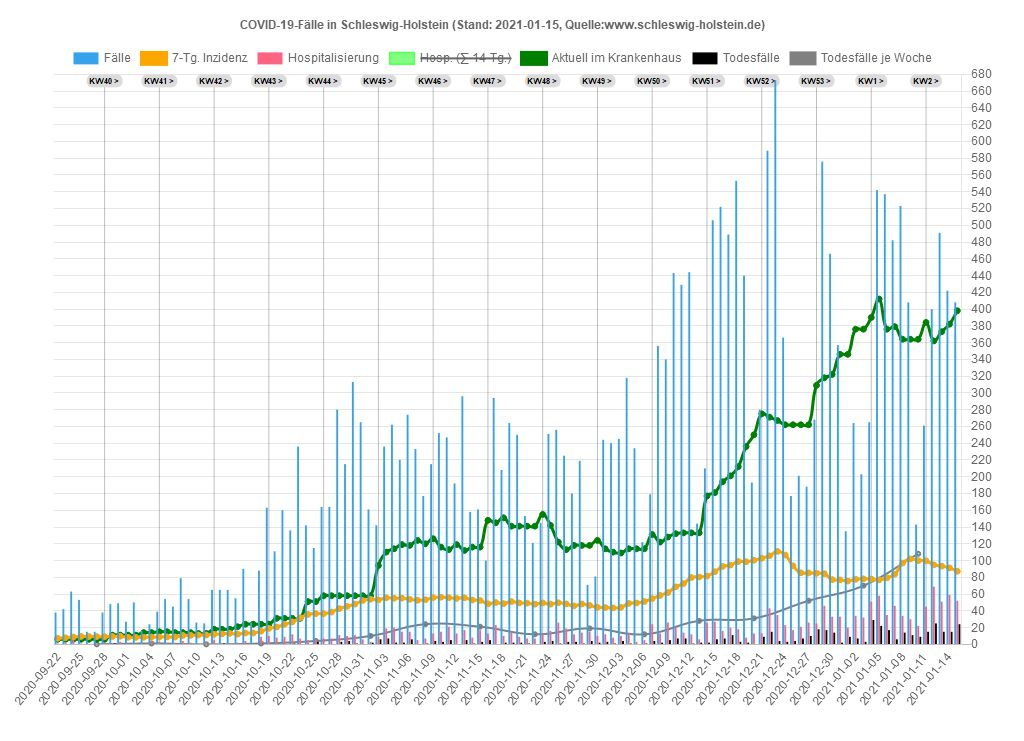
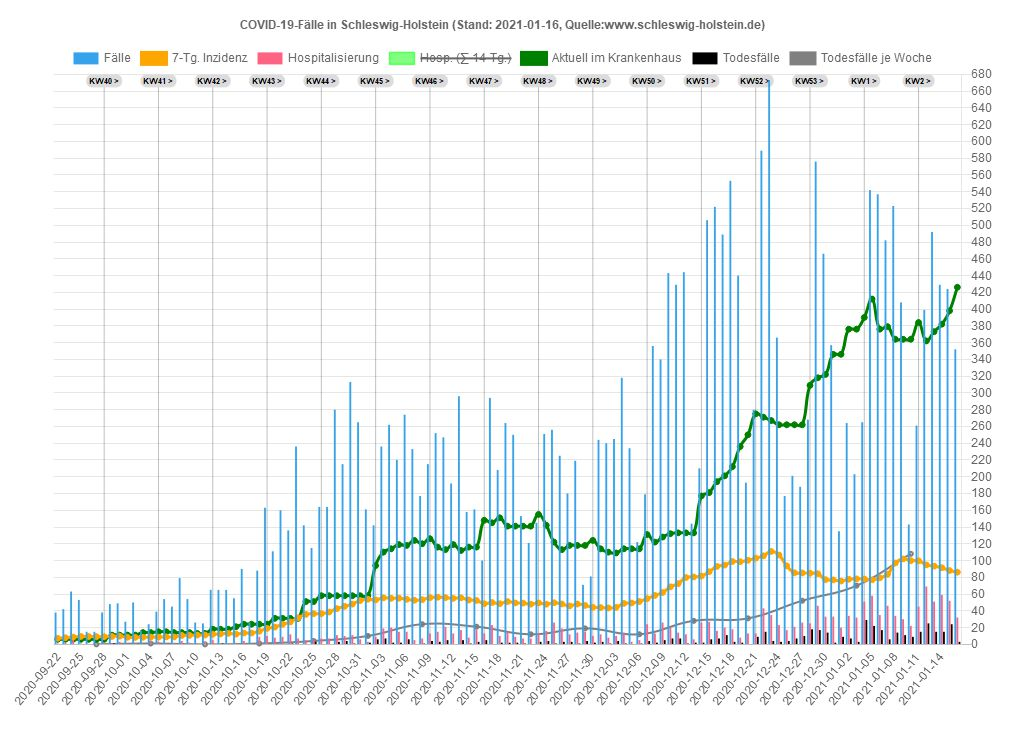
16.01.2021 20:33:05,99

Changed region(s): [[0.0625, 0.0931, 0.9375, 0.9622], [0.1875, 0.0931, 0.2188, 0.1242], [0.125, 0.0931, 0.1562, 0.1242]]

diff --git a/sh/Data_SH.js b/sh/Data_SH.js
@@ -1,20 +1,20 @@
 var chdata={
-labels: ["2020-09-22","2020-09-23","2020-09-24","2020-09-25","2020-09-26","2020-09-27","2020-09-28","2020-09-29","2020-09-30","2020-10-01","2020-10-02","2020-10-03","2020-10-04","2020-10-05","2020-10-06","2020-10-07","2020-10-08","2020-10-09","2020-10-10","2020-10-11","2020-10-12","2020-10-13","2020-10-14","2020-10-15","2020-10-16","2020-10-17","2020-10-18","2020-10-19","2020-10-20","2020-10-21","2020-10-22","2020-10-23","2020-10-24","2020-10-25","2020-10-26","2020-10-27","2020-10-28","2020-10-29","2020-10-30","2020-10-31","2020-11-01","2020-11-02","2020-11-03","2020-11-04","2020-11-05","2020-11-06","2020-11-07","2020-11-08","2020-11-09","2020-11-10","2020-11-11","2020-11-12","2020-11-13","2020-11-14","2020-11-15","2020-11-16","2020-11-17","2020-11-18","2020-11-19","2020-11-20","2020-11-21","2020-11-22","2020-11-23","2020-11-24","2020-11-25","2020-11-26","2020-11-27","2020-11-28","2020-11-29","2020-11-30","2020-12-01","2020-12-02","2020-12-03","2020-12-04","2020-12-05","2020-12-06","2020-12-07","2020-12-08","2020-12-09","2020-12-10","2020-12-11","2020-12-12","2020-12-13","2020-12-14","2020-12-15","2020-12-16","2020-12-17","2020-12-18","2020-12-19","2020-12-20","2020-12-21","2020-12-22","2020-12-23","2020-12-24","2020-12-25","2020-12-26","2020-12-27","2020-12-28","2020-12-29","2020-12-30","2020-12-31","2021-01-01","2021-01-02","2021-01-03","2021-01-04","2021-01-05","2021-01-06","2021-01-07","2021-01-08","2021-01-09","2021-01-10","2021-01-11","2021-01-12","2021-01-13","2021-01-14","2021-01-15"],
+labels: ["2020-09-22","2020-09-23","2020-09-24","2020-09-25","2020-09-26","2020-09-27","2020-09-28","2020-09-29","2020-09-30","2020-10-01","2020-10-02","2020-10-03","2020-10-04","2020-10-05","2020-10-06","2020-10-07","2020-10-08","2020-10-09","2020-10-10","2020-10-11","2020-10-12","2020-10-13","2020-10-14","2020-10-15","2020-10-16","2020-10-17","2020-10-18","2020-10-19","2020-10-20","2020-10-21","2020-10-22","2020-10-23","2020-10-24","2020-10-25","2020-10-26","2020-10-27","2020-10-28","2020-10-29","2020-10-30","2020-10-31","2020-11-01","2020-11-02","2020-11-03","2020-11-04","2020-11-05","2020-11-06","2020-11-07","2020-11-08","2020-11-09","2020-11-10","2020-11-11","2020-11-12","2020-11-13","2020-11-14","2020-11-15","2020-11-16","2020-11-17","2020-11-18","2020-11-19","2020-11-20","2020-11-21","2020-11-22","2020-11-23","2020-11-24","2020-11-25","2020-11-26","2020-11-27","2020-11-28","2020-11-29","2020-11-30","2020-12-01","2020-12-02","2020-12-03","2020-12-04","2020-12-05","2020-12-06","2020-12-07","2020-12-08","2020-12-09","2020-12-10","2020-12-11","2020-12-12","2020-12-13","2020-12-14","2020-12-15","2020-12-16","2020-12-17","2020-12-18","2020-12-19","2020-12-20","2020-12-21","2020-12-22","2020-12-23","2020-12-24","2020-12-25","2020-12-26","2020-12-27","2020-12-28","2020-12-29","2020-12-30","2020-12-31","2021-01-01","2021-01-02","2021-01-03","2021-01-04","2021-01-05","2021-01-06","2021-01-07","2021-01-08","2021-01-09","2021-01-10","2021-01-11","2021-01-12","2021-01-13","2021-01-14","2021-01-15","2021-01-16"],
 datasets: [
 {label: 'Fälle',
 type: 'bar',
 backgroundColor: window.chartColors.blue,
-data: [38,42,63,53,15,15,38,48,49,27,50,16,24,39,54,45,79,54,26,25,65,65,65,55,90,26,88,163,111,160,136,236,142,115,164,164,280,215,313,265,161,142,236,262,220,274,233,177,215,252,247,192,296,158,161,100,294,208,264,250,153,121,145,251,256,225,180,219,71,81,244,240,245,318,234,122,179,356,340,443,429,444,144,210,506,522,489,553,440,193,280,589,673,366,177,201,188,268,576,466,357,135,264,203,265,542,537,482,523,408,143,261,400,491,422,408]},
+data: [38,42,63,53,15,15,38,48,49,27,50,16,24,39,54,45,79,54,26,25,65,65,65,55,90,26,88,163,111,160,136,236,142,115,164,164,280,215,313,265,161,142,236,262,220,274,233,177,215,252,247,192,296,158,161,100,294,208,264,250,153,121,145,251,256,225,180,219,71,81,244,240,245,318,234,122,179,356,340,443,429,444,144,210,506,522,489,553,440,193,280,589,673,366,177,201,188,268,576,466,357,135,264,203,265,542,537,482,523,408,143,261,399,492,429,424,352]},
 {label: '7-Tg. Inzidenz',
 type: 'line',
 fill: false,
 pointBackgroundColor: 'orange',
 borderColor: 'orange',
-data: [7.2,7.9,8.7,9.4,9.3,9.2,9.1,9.4,9.7,8.4,8.3,8.4,8.7,8.7,8.9,8.8,10.6,10.7,11.1,11.1,12.0,12.4,13.1,12.2,13.5,13.5,15.6,19.0,20.6,23.9,26.7,31.7,35.7,36.6,36.6,38.5,42.6,45.3,48.0,52.2,53.8,53.0,55.5,54.9,55.1,53.7,52.6,53.2,55.7,56.2,55.7,54.8,55.5,52.9,52.4,48.4,49.9,48.5,51.0,49.4,49.2,47.9,49.4,47.9,49.6,48.2,45.8,48.1,46.4,44.2,43.9,43.4,44.1,48.8,49.3,51.1,54.5,58.3,61.8,68.6,72.4,79.7,80.4,81.5,86.6,92.9,94.5,98.8,98.6,100.3,102.7,105.6,110.8,106.6,93.6,85.4,85.2,84.8,84.3,77.2,76.9,75.5,77.6,78.1,78.0,76.9,79.3,83.6,97.0,101.9,99.9,99.7,94.8,93.3,91.2,87.2]},
+data: [7.2,7.9,8.7,9.4,9.3,9.2,9.1,9.4,9.7,8.4,8.3,8.4,8.7,8.7,8.9,8.8,10.6,10.7,11.1,11.1,12.0,12.4,13.1,12.2,13.5,13.5,15.6,19.0,20.6,23.9,26.7,31.7,35.7,36.6,36.6,38.5,42.6,45.3,48.0,52.2,53.8,53.0,55.5,54.9,55.1,53.7,52.6,53.2,55.7,56.2,55.7,54.8,55.5,52.9,52.4,48.4,49.9,48.5,51.0,49.4,49.2,47.9,49.4,47.9,49.6,48.2,45.8,48.1,46.4,44.2,43.9,43.4,44.1,48.8,49.3,51.1,54.5,58.3,61.8,68.6,72.4,79.7,80.4,81.5,86.6,92.9,94.5,98.8,98.6,100.3,102.7,105.6,110.8,106.6,93.6,85.4,85.2,84.8,84.3,77.2,76.9,75.5,77.6,78.1,78.0,76.9,79.3,83.6,97.0,101.9,99.9,99.7,94.8,93.3,91.4,88.0,86.1]},
 {label: 'Hospitalisierung',
 type: 'bar',
 backgroundColor: window.chartColors.red,
-data: [1,2,7,1,0,0,2,1,3,1,1,0,4,3,1,1,4,2,0,3,5,1,1,2,4,0,9,10,8,9,12,7,5,6,7,7,11,10,11,6,3,9,19,20,15,15,5,7,13,15,21,13,17,8,17,13,23,10,15,9,7,7,13,16,26,19,12,14,15,10,12,8,10,14,3,5,24,13,26,20,14,12,6,26,27,16,20,18,8,13,13,43,35,23,17,21,26,25,46,33,33,20,34,32,51,58,35,46,34,30,22,45,69,51,59,52]},
+data: [1,2,7,1,0,0,2,1,3,1,1,0,4,3,1,1,4,2,0,3,5,1,1,2,4,0,9,10,8,9,12,7,5,6,7,7,11,10,11,6,3,9,19,20,15,15,5,7,13,15,21,13,17,8,17,13,23,10,15,9,7,7,13,16,26,19,12,14,15,10,12,8,10,14,3,5,24,13,26,20,14,12,6,26,27,16,20,18,8,13,13,43,35,23,17,21,26,25,46,33,33,20,34,32,51,58,35,46,34,30,22,45,69,51,59,52,32]},
 {label: 'Hosp. (∑ 14-Tg.)',
 type: 'line',
 fill: false,
@@ -22,17 +22,17 @@ hidden: true,
 borderColor: 'rgba(0,255,0,0.5)',
 borderWidth: 1.5,
 pointRadius: 0,
-data: [12,12,20,22,22,22,22,23,23,21,22,21,24,26,26,25,22,23,23,26,29,29,27,28,31,31,36,43,50,58,66,71,76,79,81,87,97,105,112,118,112,111,122,133,136,144,144,145,151,159,169,172,178,180,194,198,202,192,192,186,188,188,188,189,194,200,195,201,199,196,185,183,178,183,179,177,188,185,185,186,188,186,177,193,208,216,226,230,235,243,232,262,271,274,277,286,306,305,324,341,354,356,382,401,439,454,454,477,494,503,499,519,542,560,586,618]},
+data: [12,12,20,22,22,22,22,23,23,21,22,21,24,26,26,25,22,23,23,26,29,29,27,28,31,31,36,43,50,58,66,71,76,79,81,87,97,105,112,118,112,111,122,133,136,144,144,145,151,159,169,172,178,180,194,198,202,192,192,186,188,188,188,189,194,200,195,201,199,196,185,183,178,183,179,177,188,185,185,186,188,186,177,193,208,216,226,230,235,243,232,262,271,274,277,286,306,305,324,341,354,356,382,401,439,454,454,477,494,503,499,519,542,560,586,618,616]},
 {label: 'Aktuell im Krankenhaus',
 type: 'line',
 fill: false,
 pointBackgroundColor: 'green',
 borderColor: 'green',
-data: [6,6,6,6,6,6,6,11,11,11,11,14,14,15,15,14,14,14,13,13,18,18,18,21,24,24,24,24,31,31,31,31,51,51,58,58,58,58,58,58,58,94,110,114,119,118,124,120,126,116,113,119,112,116,116,148,145,151,141,141,141,141,155,142,122,113,118,118,118,124,114,110,109,114,114,114,131,122,128,132,133,133,133,177,181,194,201,212,236,250,275,271,267,262,262,262,262,309,318,322,346,346,376,376,390,412,376,379,364,364,364,384,362,373,382,398]},
+data: [6,6,6,6,6,6,6,11,11,11,11,14,14,15,15,14,14,14,13,13,18,18,18,21,24,24,24,24,31,31,31,31,51,51,58,58,58,58,58,58,58,94,110,114,119,118,124,120,126,116,113,119,112,116,116,148,145,151,141,141,141,141,155,142,122,113,118,118,118,124,114,110,109,114,114,114,131,122,128,132,133,133,133,177,181,194,201,212,236,250,275,271,267,262,262,262,262,309,318,322,346,346,376,376,390,412,376,379,364,364,364,384,362,373,382,398,426]},
 {label: 'Todesfälle',
 type: 'bar',
 backgroundColor: 'black',
-data: [0,0,0,0,0,0,0,1,0,0,0,0,0,0,0,0,0,0,0,0,0,1,0,0,0,0,0,0,0,0,1,0,0,3,0,0,3,4,1,0,2,6,7,2,2,6,0,1,4,3,5,0,5,1,3,5,0,2,2,2,1,0,3,4,1,3,3,1,4,2,3,1,4,1,0,1,4,2,5,7,7,1,2,2,6,7,11,3,2,0,9,15,4,3,4,7,10,18,17,14,2,9,7,3,29,22,17,6,14,11,9,15,25,15,15,24]},
+data: [0,0,0,0,0,0,0,1,0,0,0,0,0,0,0,0,0,0,0,0,0,1,0,0,0,0,0,0,0,0,1,0,0,3,0,0,3,4,1,0,2,6,7,2,2,6,0,1,4,3,5,0,5,1,3,5,0,2,2,2,1,0,3,4,1,3,3,1,4,2,3,1,4,1,0,1,4,2,5,7,7,1,2,2,6,7,11,3,2,0,9,15,4,3,4,7,10,18,17,14,2,9,7,3,29,22,17,6,14,11,9,15,25,15,15,24,3]},
 {label: 'Todesfälle je Woche',
 type: 'line',
 fill: false,
@@ -41,6 +41,6 @@ borderColor: 'rgba(128,128,128,1)',
 borderWidth: 2,
 pointRadius: 2,
 yAxisID: 'first-y-axis',
-data: [,,,,,0,,,,,,,1,,,,,,,0,,,,,,,1,,,,,,,4,,,,,,,10,,,,,,,24,,,,,,,21,,,,,,,12,,,,,,,19,,,,,,,12,,,,,,,28,,,,,,,31,,,,,,,52,,,,,,,70,,,,,,,108,,,,,]},
+data: [,,,,,0,,,,,,,1,,,,,,,0,,,,,,,1,,,,,,,4,,,,,,,10,,,,,,,24,,,,,,,21,,,,,,,12,,,,,,,19,,,,,,,12,,,,,,,28,,,,,,,31,,,,,,,52,,,,,,,70,,,,,,,108,,,,,,]},
 ]};
 

diff --git a/sh/Data_SH_Alter.js b/sh/Data_SH_Alter.js
@@ -126,7 +126,8 @@ var chdata={
 				{x: '2021-01-12', y: 'Alle', v: 92.6380953, casesum: 2690},{x: '2021-01-12', y: '00-09', v: 29.9935339, casesum: 77},{x: '2021-01-12', y: '10-19', v: 77.5342654, casesum: 214},{x: '2021-01-12', y: '20-29', v: 140.954238, casesum: 451},{x: '2021-01-12', y: '30-39', v: 118.421013, casesum: 398},{x: '2021-01-12', y: '40-49', v: 83.6943539, casesum: 295},{x: '2021-01-12', y: '50-59', v: 77.9166776, casesum: 386},{x: '2021-01-12', y: '60-69', v: 65.4691497, casesum: 238},{x: '2021-01-12', y: '70-79', v: 66.569572, casesum: 197},{x: '2021-01-12', y: '80-89', v: 171.100748, casesum: 306},{x: '2021-01-12', y: '90+', v: 444.197668, casesum: 128},
 				{x: '2021-01-13', y: 'Alle', v: 90.3651904, casesum: 2624},{x: '2021-01-13', y: '00-09', v: 27.6563754, casesum: 71},{x: '2021-01-13', y: '10-19', v: 76.8096461, casesum: 212},{x: '2021-01-13', y: '20-29', v: 133.14081, casesum: 426},{x: '2021-01-13', y: '30-39', v: 116.338232, casesum: 391},{x: '2021-01-13', y: '40-49', v: 81.7083862, casesum: 288},{x: '2021-01-13', y: '50-59', v: 76.0999675, casesum: 377},{x: '2021-01-13', y: '60-69', v: 62.1681842, casesum: 226},{x: '2021-01-13', y: '70-79', v: 66.569572, casesum: 197},{x: '2021-01-13', y: '80-89', v: 173.337359, casesum: 310},{x: '2021-01-13', y: '90+', v: 437.257079, casesum: 126},
 				{x: '2021-01-14', y: 'Alle', v: 88.5744168, casesum: 2572},{x: '2021-01-14', y: '00-09', v: 32.3306923, casesum: 83},{x: '2021-01-14', y: '10-19', v: 74.9980979, casesum: 207},{x: '2021-01-14', y: '20-29', v: 131.265588, casesum: 420},{x: '2021-01-14', y: '30-39', v: 115.743151, casesum: 389},{x: '2021-01-14', y: '40-49', v: 78.8712894, casesum: 278},{x: '2021-01-14', y: '50-59', v: 74.8888274, casesum: 371},{x: '2021-01-14', y: '60-69', v: 58.5921382, casesum: 213},{x: '2021-01-14', y: '70-79', v: 66.569572, casesum: 197},{x: '2021-01-14', y: '80-89', v: 164.950068, casesum: 295},{x: '2021-01-14', y: '90+', v: 412.965019, casesum: 119},
-				{x: '2021-01-15', y: 'Alle', v: 85.9915703, casesum: 2497},{x: '2021-01-15', y: '00-09', v: 33.888798, casesum: 87},{x: '2021-01-15', y: '10-19', v: 71.737311, casesum: 198},{x: '2021-01-15', y: '20-29', v: 128.140217, casesum: 410},{x: '2021-01-15', y: '30-39', v: 109.494806, casesum: 368},{x: '2021-01-15', y: '40-49', v: 78.3038701, casesum: 276},{x: '2021-01-15', y: '50-59', v: 74.6869708, casesum: 370},{x: '2021-01-15', y: '60-69', v: 58.0419773, casesum: 211},{x: '2021-01-15', y: '70-79', v: 65.5558221, casesum: 194},{x: '2021-01-15', y: '80-89', v: 157.121929, casesum: 281},{x: '2021-01-15', y: '90+', v: 353.970017, casesum: 102}
+				{x: '2021-01-15', y: 'Alle', v: 85.9915703, casesum: 2497},{x: '2021-01-15', y: '00-09', v: 33.888798, casesum: 87},{x: '2021-01-15', y: '10-19', v: 71.737311, casesum: 198},{x: '2021-01-15', y: '20-29', v: 128.140217, casesum: 410},{x: '2021-01-15', y: '30-39', v: 109.494806, casesum: 368},{x: '2021-01-15', y: '40-49', v: 78.3038701, casesum: 276},{x: '2021-01-15', y: '50-59', v: 74.6869708, casesum: 370},{x: '2021-01-15', y: '60-69', v: 58.0419773, casesum: 211},{x: '2021-01-15', y: '70-79', v: 65.5558221, casesum: 194},{x: '2021-01-15', y: '80-89', v: 157.121929, casesum: 281},{x: '2021-01-15', y: '90+', v: 353.970017, casesum: 102},
+				{x: '2021-01-16', y: 'Alle', v: 84.2696726, casesum: 2447},{x: '2021-01-16', y: '00-09', v: 35.4469037, casesum: 91},{x: '2021-01-16', y: '10-19', v: 70.2880724, casesum: 194},{x: '2021-01-16', y: '20-29', v: 125.63992, casesum: 402},{x: '2021-01-16', y: '30-39', v: 103.246462, casesum: 347},{x: '2021-01-16', y: '40-49', v: 79.7224185, casesum: 281},{x: '2021-01-16', y: '50-59', v: 73.4758307, casesum: 364},{x: '2021-01-16', y: '60-69', v: 57.7668968, casesum: 210},{x: '2021-01-16', y: '70-79', v: 65.5558221, casesum: 194},{x: '2021-01-16', y: '80-89', v: 147.616332, casesum: 264},{x: '2021-01-16', y: '90+', v: 347.029428, casesum: 100}
 			],
 			backgroundColor: function(context) {
 				return inzColor(context.dataset.data[context.dataIndex].v)
@@ -134,7 +135,7 @@ var chdata={
 			width: function(context) {
 				const a = context.chart.chartArea
 				if (!a) return 0
-				return (a.right - a.left) / 123.5
+				return (a.right - a.left) / 124.5
 			},
 			height: function(context) {
 				const a = context.chart.chartArea
@@ -146,7 +147,7 @@ var chdata={
 	options: {
 		legend: { display: false },
 		scales: {
-			xAxes: [{type: 'category', labels: ["2020-09-15","2020-09-16","2020-09-17","2020-09-18","2020-09-19","2020-09-20","2020-09-21","2020-09-22","2020-09-23","2020-09-24","2020-09-25","2020-09-26","2020-09-27","2020-09-28","2020-09-29","2020-09-30","2020-10-01","2020-10-02","2020-10-03","2020-10-04","2020-10-05","2020-10-06","2020-10-07","2020-10-08","2020-10-09","2020-10-10","2020-10-11","2020-10-12","2020-10-13","2020-10-14","2020-10-15","2020-10-16","2020-10-17","2020-10-18","2020-10-19","2020-10-20","2020-10-21","2020-10-22","2020-10-23","2020-10-24","2020-10-25","2020-10-26","2020-10-27","2020-10-28","2020-10-29","2020-10-30","2020-10-31","2020-11-01","2020-11-02","2020-11-03","2020-11-04","2020-11-05","2020-11-06","2020-11-07","2020-11-08","2020-11-09","2020-11-10","2020-11-11","2020-11-12","2020-11-13","2020-11-14","2020-11-15","2020-11-16","2020-11-17","2020-11-18","2020-11-19","2020-11-20","2020-11-21","2020-11-22","2020-11-23","2020-11-24","2020-11-25","2020-11-26","2020-11-27","2020-11-28","2020-11-29","2020-11-30","2020-12-01","2020-12-02","2020-12-03","2020-12-04","2020-12-05","2020-12-06","2020-12-07","2020-12-08","2020-12-09","2020-12-10","2020-12-11","2020-12-12","2020-12-13","2020-12-14","2020-12-15","2020-12-16","2020-12-17","2020-12-18","2020-12-19","2020-12-20","2020-12-21","2020-12-22","2020-12-23","2020-12-24","2020-12-25","2020-12-26","2020-12-27","2020-12-28","2020-12-29","2020-12-30","2020-12-31","2021-01-01","2021-01-02","2021-01-03","2021-01-04","2021-01-05","2021-01-06","2021-01-07","2021-01-08","2021-01-09","2021-01-10","2021-01-11","2021-01-12","2021-01-13","2021-01-14","2021-01-15",], ticks: {display: true},gridlines:{display:false}}],
+			xAxes: [{type: 'category', labels: ["2020-09-15","2020-09-16","2020-09-17","2020-09-18","2020-09-19","2020-09-20","2020-09-21","2020-09-22","2020-09-23","2020-09-24","2020-09-25","2020-09-26","2020-09-27","2020-09-28","2020-09-29","2020-09-30","2020-10-01","2020-10-02","2020-10-03","2020-10-04","2020-10-05","2020-10-06","2020-10-07","2020-10-08","2020-10-09","2020-10-10","2020-10-11","2020-10-12","2020-10-13","2020-10-14","2020-10-15","2020-10-16","2020-10-17","2020-10-18","2020-10-19","2020-10-20","2020-10-21","2020-10-22","2020-10-23","2020-10-24","2020-10-25","2020-10-26","2020-10-27","2020-10-28","2020-10-29","2020-10-30","2020-10-31","2020-11-01","2020-11-02","2020-11-03","2020-11-04","2020-11-05","2020-11-06","2020-11-07","2020-11-08","2020-11-09","2020-11-10","2020-11-11","2020-11-12","2020-11-13","2020-11-14","2020-11-15","2020-11-16","2020-11-17","2020-11-18","2020-11-19","2020-11-20","2020-11-21","2020-11-22","2020-11-23","2020-11-24","2020-11-25","2020-11-26","2020-11-27","2020-11-28","2020-11-29","2020-11-30","2020-12-01","2020-12-02","2020-12-03","2020-12-04","2020-12-05","2020-12-06","2020-12-07","2020-12-08","2020-12-09","2020-12-10","2020-12-11","2020-12-12","2020-12-13","2020-12-14","2020-12-15","2020-12-16","2020-12-17","2020-12-18","2020-12-19","2020-12-20","2020-12-21","2020-12-22","2020-12-23","2020-12-24","2020-12-25","2020-12-26","2020-12-27","2020-12-28","2020-12-29","2020-12-30","2020-12-31","2021-01-01","2021-01-02","2021-01-03","2021-01-04","2021-01-05","2021-01-06","2021-01-07","2021-01-08","2021-01-09","2021-01-10","2021-01-11","2021-01-12","2021-01-13","2021-01-14","2021-01-15","2021-01-16",], ticks: {display: true},gridlines:{display:false}}],
 			yAxes: [{type: 'category', labels: ["Alle","00-09","10-19","20-29","30-39","40-49","50-59","60-69","70-79","80-89","90+"], offset:true, ticks: {display: true},gridlines:{display:false}}],
 		},
 	}

diff --git a/sh/Kreis_PI.js b/sh/Kreis_PI.js
@@ -1,23 +1,23 @@
 var chdata={
-labels: ["2020-09-22","2020-09-23","2020-09-24","2020-09-25","2020-09-26","2020-09-27","2020-09-28","2020-09-29","2020-09-30","2020-10-01","2020-10-02","2020-10-03","2020-10-04","2020-10-05","2020-10-06","2020-10-07","2020-10-08","2020-10-09","2020-10-10","2020-10-11","2020-10-12","2020-10-13","2020-10-14","2020-10-15","2020-10-16","2020-10-17","2020-10-18","2020-10-19","2020-10-20","2020-10-21","2020-10-22","2020-10-23","2020-10-24","2020-10-25","2020-10-26","2020-10-27","2020-10-28","2020-10-29","2020-10-30","2020-10-31","2020-11-01","2020-11-02","2020-11-03","2020-11-04","2020-11-05","2020-11-06","2020-11-07","2020-11-08","2020-11-09","2020-11-10","2020-11-11","2020-11-12","2020-11-13","2020-11-14","2020-11-15","2020-11-16","2020-11-17","2020-11-18","2020-11-19","2020-11-20","2020-11-21","2020-11-22","2020-11-23","2020-11-24","2020-11-25","2020-11-26","2020-11-27","2020-11-28","2020-11-29","2020-11-30","2020-12-01","2020-12-02","2020-12-03","2020-12-04","2020-12-05","2020-12-06","2020-12-07","2020-12-08","2020-12-09","2020-12-10","2020-12-11","2020-12-12","2020-12-13","2020-12-14","2020-12-15","2020-12-16","2020-12-17","2020-12-18","2020-12-19","2020-12-20","2020-12-21","2020-12-22","2020-12-23","2020-12-24","2020-12-25","2020-12-26","2020-12-27","2020-12-28","2020-12-29","2020-12-30","2020-12-31","2021-01-01","2021-01-02","2021-01-03","2021-01-04","2021-01-05","2021-01-06","2021-01-07","2021-01-08","2021-01-09","2021-01-10","2021-01-11","2021-01-12","2021-01-13","2021-01-14","2021-01-15"],
+labels: ["2020-09-22","2020-09-23","2020-09-24","2020-09-25","2020-09-26","2020-09-27","2020-09-28","2020-09-29","2020-09-30","2020-10-01","2020-10-02","2020-10-03","2020-10-04","2020-10-05","2020-10-06","2020-10-07","2020-10-08","2020-10-09","2020-10-10","2020-10-11","2020-10-12","2020-10-13","2020-10-14","2020-10-15","2020-10-16","2020-10-17","2020-10-18","2020-10-19","2020-10-20","2020-10-21","2020-10-22","2020-10-23","2020-10-24","2020-10-25","2020-10-26","2020-10-27","2020-10-28","2020-10-29","2020-10-30","2020-10-31","2020-11-01","2020-11-02","2020-11-03","2020-11-04","2020-11-05","2020-11-06","2020-11-07","2020-11-08","2020-11-09","2020-11-10","2020-11-11","2020-11-12","2020-11-13","2020-11-14","2020-11-15","2020-11-16","2020-11-17","2020-11-18","2020-11-19","2020-11-20","2020-11-21","2020-11-22","2020-11-23","2020-11-24","2020-11-25","2020-11-26","2020-11-27","2020-11-28","2020-11-29","2020-11-30","2020-12-01","2020-12-02","2020-12-03","2020-12-04","2020-12-05","2020-12-06","2020-12-07","2020-12-08","2020-12-09","2020-12-10","2020-12-11","2020-12-12","2020-12-13","2020-12-14","2020-12-15","2020-12-16","2020-12-17","2020-12-18","2020-12-19","2020-12-20","2020-12-21","2020-12-22","2020-12-23","2020-12-24","2020-12-25","2020-12-26","2020-12-27","2020-12-28","2020-12-29","2020-12-30","2020-12-31","2021-01-01","2021-01-02","2021-01-03","2021-01-04","2021-01-05","2021-01-06","2021-01-07","2021-01-08","2021-01-09","2021-01-10","2021-01-11","2021-01-12","2021-01-13","2021-01-14","2021-01-15","2021-01-16"],
 datasets: [
 {label: 'Fälle',
 type: 'bar',
 backgroundColor: window.chartColors.blue,
 yAxisID: 'first-y-axis',
-data: [7,7,2,17,0,9,3,8,10,6,6,7,4,2,7,6,7,4,8,3,11,12,17,9,3,0,36,10,12,34,0,73,34,8,10,0,27,36,60,67,0,32,26,49,42,43,45,24,7,36,47,34,28,43,18,0,51,51,49,47,42,31,55,50,68,43,0,73,18,32,47,59,40,42,0,12,34,75,37,98,53,92,19,17,79,62,92,53,113,32,41,100,121,58,56,49,20,47,118,116,82,15,36,25,28,104,77,62,132,69,38,32,94,132,73,70]},
+data: [7,7,2,17,0,9,3,8,10,6,6,7,4,2,7,6,7,4,8,3,11,12,17,9,3,0,36,10,12,34,0,73,34,8,10,0,27,36,60,67,0,32,26,49,42,43,45,24,7,36,47,34,28,43,18,0,51,51,49,47,42,31,55,50,68,43,0,73,18,32,47,59,40,42,0,12,34,75,37,98,53,92,19,17,79,62,92,53,113,32,41,100,121,58,56,49,20,47,118,116,82,15,36,25,28,104,77,62,132,69,38,32,93,133,74,70,64]},
 {label: '7-Tg. Inzidenz',
 type: 'line',
 fill: false,
 pointBackgroundColor: 'orange',
 borderColor: 'orange',
 yAxisID: 'first-y-axis',
-data: [10.4,12.0,11.4,14.5,12.0104175,14.2,14.2,14.5,15.5,16.8,13.3,15.5,13.9,13.6,13.3,12.0,12.3,11.7,12.0,11.7,14.5,16.1,19.6,20.2,19.9,17.383499,27.8,27.5,27.5,32.9,30.0260436,52.2,62.9,54.0,54.0,50.2541151,48.0,59.4,55.3,65.7,63.2127235,70.2,78.4,85.3,87.2,81.9,74.9,82.5,74.6,77.8,77.1,74.6,69.9,69.2,67.3,65.1091052,69.9,71.1,75.9,81.9,81.5,85.7,103.0,102.7,108.1,106.2,91.3423854,101.1,97.0,89.8,88.8,86.0,85.0,98.3,75.2231409,73.3,74.0,82.8,75.9,94.2,97.7,126.7,129.0,123.6,124.8,132.7,130.9,130.9,137.5,141.6,149.2,155.8,174.5,163.7,164.7,144.4,140.6,142.5,148.2,146.7,154.2,141.3,137.2,138.8,132.7,128.3,116.0,109.7,146.7,157.1,161.2,162.5,159.3,176.7,180.2,160.7]},
+data: [10.4,12.0,11.4,14.5,12.0104175,14.2,14.2,14.5,15.5,16.8,13.3,15.5,13.9,13.6,13.3,12.0,12.3,11.7,12.0,11.7,14.5,16.1,19.6,20.2,19.9,17.383499,27.8,27.5,27.5,32.9,30.0260436,52.2,62.9,54.0,54.0,50.2541151,48.0,59.4,55.3,65.7,63.2127235,70.2,78.4,85.3,87.2,81.9,74.9,82.5,74.6,77.8,77.1,74.6,69.9,69.2,67.3,65.1091052,69.9,71.1,75.9,81.9,81.5,85.7,103.0,102.7,108.1,106.2,91.3423854,101.1,97.0,89.8,88.8,86.0,85.0,98.3,75.2231409,73.3,74.0,82.8,75.9,94.2,97.7,126.7,129.0,123.6,124.8,132.7,130.9,130.9,137.5,141.6,149.2,155.8,174.5,163.7,164.7,144.4,140.6,142.5,148.2,146.7,154.2,141.3,137.2,138.8,132.7,128.3,116.0,109.7,146.7,157.1,161.2,162.5,159.0,176.7,180.5,160.9,159.4]},
 {label: 'Hospitalisierung',
 type: 'bar',
 backgroundColor: window.chartColors.red,
 yAxisID: 'first-y-axis',
-data: [0,0,0,0,0,0,1,1,0,0,0,0,1,1,1,-1,2,0,0,0,0,0,0,0,0,0,3,2,0,1,0,5,0,1,1,0,1,2,5,2,0,2,1,2,5,3,0,0,3,4,2,3,3,1,1,0,6,1,2,2,2,0,1,2,6,4,0,6,4,4,3,3,2,5,0,2,4,1,6,7,4,1,0,9,5,0,7,0,0,0,0,25,8,6,2,3,3,5,15,9,4,6,10,3,4,8,13,13,6,3,4,0,26,12,8,7]},
+data: [0,0,0,0,0,0,1,1,0,0,0,0,1,1,1,-1,2,0,0,0,0,0,0,0,0,0,3,2,0,1,0,5,0,1,1,0,1,2,5,2,0,2,1,2,5,3,0,0,3,4,2,3,3,1,1,0,6,1,2,2,2,0,1,2,6,4,0,6,4,4,3,3,2,5,0,2,4,1,6,7,4,1,0,9,5,0,7,0,0,0,0,25,8,6,2,3,3,5,15,9,4,6,10,3,4,8,13,13,6,3,4,0,26,12,8,7,6]},
 {label: 'Hospitalisierung (∑ 14-Tg.)',
 type: 'line',
 pointRadius: 0,
@@ -25,12 +25,12 @@ fill: false,
 borderColor: 'rgba(0,128,0,0.5)',
 borderWidth: 2,
 yAxisID: 'first-y-axis',
-data: [2,2,2,2,2,2,3,4,3,2,2,2,3,4,5,4,6,6,6,6,5,4,4,4,4,4,6,7,6,8,6,11,11,12,13,13,14,16,21,23,20,20,21,22,27,25,25,24,26,30,31,32,30,29,30,28,33,32,29,28,30,30,28,26,30,31,28,33,36,40,37,39,39,42,40,42,45,44,44,47,51,46,42,47,49,46,51,46,46,44,40,64,66,65,63,65,68,64,74,83,80,86,96,99,103,86,91,98,102,102,103,98,109,112,116,117]},
+data: [2,2,2,2,2,2,3,4,3,2,2,2,3,4,5,4,6,6,6,6,5,4,4,4,4,4,6,7,6,8,6,11,11,12,13,13,14,16,21,23,20,20,21,22,27,25,25,24,26,30,31,32,30,29,30,28,33,32,29,28,30,30,28,26,30,31,28,33,36,40,37,39,39,42,40,42,45,44,44,47,51,46,42,47,49,46,51,46,46,44,40,64,66,65,63,65,68,64,74,83,80,86,96,99,103,86,91,98,102,102,103,98,109,112,116,117,113]},
 {label: 'Todesfälle',
 type: 'bar',
 backgroundColor: 'black',
 yAxisID: 'first-y-axis',
-data: [0,0,0,0,0,0,0,0,0,0,0,0,0,0,0,0,0,0,0,0,0,0,0,0,0,0,0,0,0,0,0,0,0,0,0,0,1,0,0,0,0,0,0,0,0,0,0,0,0,1,0,0,0,0,0,0,0,0,0,0,0,0,0,0,0,1,0,1,0,2,0,0,2,1,0,0,0,1,0,2,1,0,0,0,1,0,7,0,0,0,0,4,0,0,2,0,2,3,4,3,0,6,0,2,10,4,5,1,2,5,1,0,7,2,5,6]},
+data: [0,0,0,0,0,0,0,0,0,0,0,0,0,0,0,0,0,0,0,0,0,0,0,0,0,0,0,0,0,0,0,0,0,0,0,0,1,0,0,0,0,0,0,0,0,0,0,0,0,1,0,0,0,0,0,0,0,0,0,0,0,0,0,0,0,1,0,1,0,2,0,0,2,1,0,0,0,1,0,2,1,0,0,0,1,0,7,0,0,0,0,4,0,0,2,0,2,3,4,3,0,6,0,2,10,4,5,1,2,5,1,0,7,2,5,6,1]},
 {label: 'Todesfälle je Woche',
 type: 'line',
 fill: false,
@@ -39,6 +39,6 @@ borderColor: 'rgba(128,128,128,1)',
 borderWidth: 2,
 pointRadius: 2,
 yAxisID: 'first-y-axis',
-data: [,,,,,0,,,,,,,0,,,,,,,0,,,,,,,0,,,,,,,0,,,,,,,1,,,,,,,0,,,,,,,1,,,,,,,0,,,,,,,2,,,,,,,5,,,,,,,4,,,,,,,8,,,,,,,8,,,,,,,18,,,,,,,28,,,,,]},
+data: [,,,,,0,,,,,,,0,,,,,,,0,,,,,,,0,,,,,,,0,,,,,,,1,,,,,,,0,,,,,,,1,,,,,,,0,,,,,,,2,,,,,,,5,,,,,,,4,,,,,,,8,,,,,,,8,,,,,,,18,,,,,,,28,,,,,,]},
 ]};
 

diff --git a/sh/index_sh_alter.html b/sh/index_sh_alter.html
@@ -5,7 +5,7 @@
 <meta property="og:image" content="index_sh_alter.jpg" />
 <meta property="og:type" content="website" />
 <meta property="og:locale" content="de_DE" />
-<meta property="og:updated_time" content="2021-01-16T17:02:05+01:00" />
+<meta property="og:updated_time" content="2021-01-16T20:33:06+01:00" />
 <title>Altersverteilung der COVID-19-Fälle in Schleswig-Holstein</title>
 <link rel="stylesheet" href="../css/style.css" media="screen" type="text/css">
 <link rel="stylesheet" media="screen" href="Chart.min.css"> 

diff --git a/sh/index_pi_alter.html b/sh/index_pi_alter.html
@@ -5,7 +5,7 @@
 <meta property="og:image" content="index_pi_alter.jpg" />
 <meta property="og:type" content="website" />
 <meta property="og:locale" content="de_DE" />
-<meta property="og:updated_time" content="2021-01-16T17:02:05+01:00" />
+<meta property="og:updated_time" content="2021-01-16T20:33:06+01:00" />
 <title>Altersverteilung der COVID-19-Fälle im Kreis Pinneberg</title>
 <link rel="stylesheet" href="../css/style.css" media="screen" type="text/css">
 <link rel="stylesheet" media="screen" href="Chart.min.css"> 

diff --git a/sh/index.html b/sh/index.html
@@ -5,7 +5,7 @@
 <meta property="og:image" content="index.jpg" />
 <meta property="og:type" content="website" />
 <meta property="og:locale" content="de_DE" />
-<meta property="og:updated_time" content="2021-01-16T17:02:05+01:00" />
+<meta property="og:updated_time" content="2021-01-16T20:33:06+01:00" />
 <title>COVID-19-Fälle im Kreis Pinneberg</title>
 <link rel="stylesheet" href="../css/style.css" media="screen" type="text/css">
 <link rel="stylesheet" media="screen" href="Chart.min.css"> 
